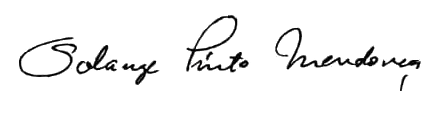
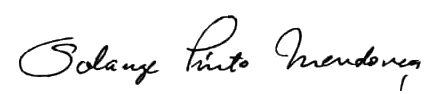
Feat: Ajuste na img e dimensionamento

diff --git a/src/components/memorial/Hero.tsx b/src/components/memorial/Hero.tsx
@@ -4,36 +4,37 @@ export function Hero() {
   return (
     <section id="top" className="mx-auto max-w-7xl px-4 pt-4 sm:px-6 sm:pt-7">
       <div className="overflow-hidden rounded-t-[2rem] border-x border-t border-[var(--border)] bg-[#ded9cc] shadow-[var(--shadow-soft)]">
-        <div className="relative aspect-[16/10] min-h-[300px] sm:aspect-[16/7]">
-          {
-            /* Imagem de capa cobrindo todo o espaço */
-            <img
-              src="/images/capa/capa_.png" 
-              alt="Capa de fundo"
-              className="absolute top-0 right-0 h-full w-9/11 left-auto object-cover object-center [mask-image:linear-gradient(to_right,transparent_0%,black_40%)]"
-            />
-          }
+        <div className="relative w-full max-w-full aspect-[16/10] min-h-[300px] sm:aspect-[16/7]">
+          <img
+            src="/images/capa/capa_.png"
+            alt="Capa de fundo"
+            className="absolute top-0 right-0 h-full w-9/11 left-auto object-cover object-center [mask-image:linear-gradient(to_right,transparent_0%,black_40%)]"
+          />
+
           <img
             src="/images/capa/solange_logo.png"
             alt={`Capa em memória de ${memorialInfo.name}`}
-            className="absolute inset-0 h-full  object-cover"
+            className="absolute inset-0 h-full  object-cover  w-44 sm:w-50 md:w-64 lg:w-130 xl:w-150"
           />
+
           {/* Gradiente e texto sobre a imagem */}
-          <div className="absolute inset-0 flex justify-end p-0  bg-gradient-to-t from-black/70 via-black/30 to-transparent">
-          
-            <div className=" flex flex-col items-center justify-center  text-center -translate-y-20">
+          <div className="absolute inset-0 flex justify-end p-4 md:p-8">
+            <div className="flex flex-col items-center justify-center text-center -translate-y-5 sm:-translate-y-8  lg:-translate-y-12 xl:-translate-y-18">
               <img
                 src="/images/capa/solange_ASSINATURA.png"
                 alt={memorialInfo.name}
-                className="h-24 w-auto object-contain sm:h-34 lg:h-56"
+                className="h-12 w-auto object-contain sm:h-22 md:h-28 lg:h-32 xl:h-42"
               />
-              <p className="max-w-[280px] sm:max-w-[350px] lg:max-w-[1400px] text-xs font-semibold uppercase tracking-[0.24em] text-black lg:text-2xl lg:tracking-[0.3em] sm:-translate-y-10">
-                e a memória do canto coral 
-              </p>
-              <p className="max-w-[280px] sm:max-w-[350px] lg:max-w-[1400px] text-xs font-semibold uppercase tracking-[0.24em] text-black lg:text-2xl lg:tracking-[0.3em] sm:-translate-y-10">
-                no Rio de
-                Janeiro
-              </p>      
+
+              <div className="mt-1 flex flex-col items-center gap-0.5 sm:mt-2 md:gap-1">
+                <p className="max-w-[280px] text-[10px] font-semibold uppercase tracking-[0.18em] text-black sm:max-w-[380px] sm:text-xs md:max-w-[480px] md:text-sm lg:max-w-[700px] lg:text-xl lg:tracking-[0.25em]">
+                  e a memória do canto coral
+                </p>
+
+                <p className="max-w-[280px] text-[10px] font-semibold uppercase tracking-[0.18em] text-black sm:max-w-[380px] sm:text-xs md:max-w-[480px] md:text-sm lg:max-w-[700px] lg:text-xl lg:tracking-[0.25em]">
+                  no Rio de Janeiro
+                </p>
+              </div>
             </div>
           </div>
         </div>
